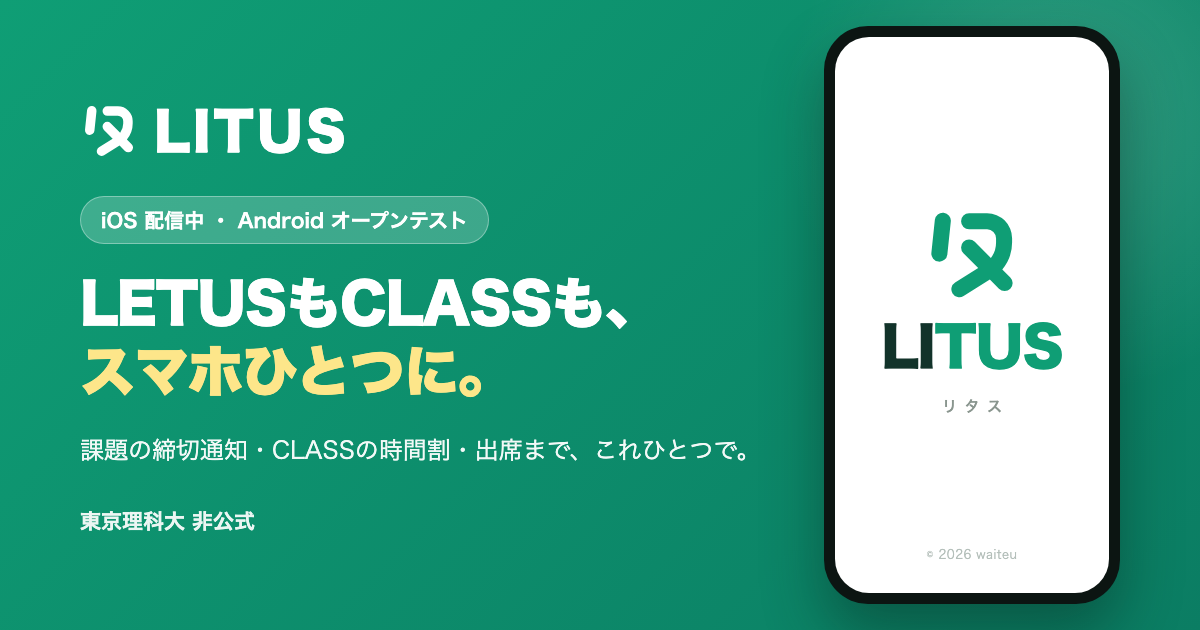
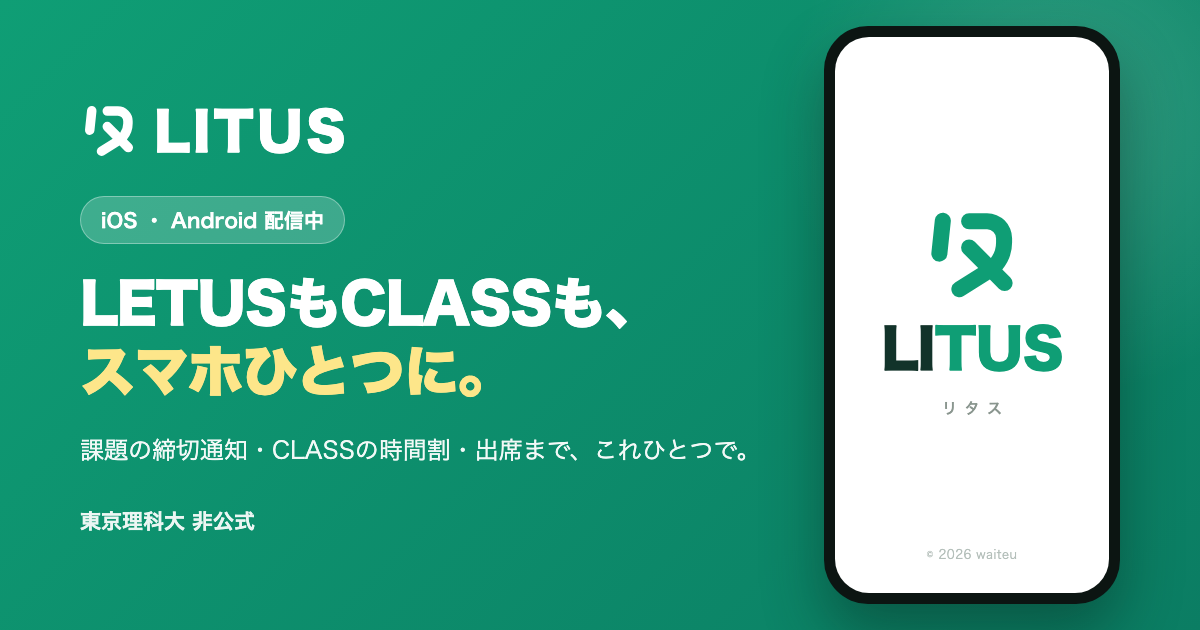
fix(landing): og-app.htmlとapp-og.pngのAndroid表記をオープンテストから配信中へ
統合ハブの公開面棚卸し（9/25）で指摘。リタスは9/24・9/25に両OSとも
製品版で配信開始したが、OG画像に「Android オープンテスト」が焼き込まれたまま
だった。og-app.htmlのバッジを「iOS ・ Android 配信中」へ直し、render.shで
1200x630に再生成（旧画像との目視比較でバッジ以外の差なし）。

上流のwaiteu-brand/litus-2026-09/og-app.htmlは、同READMEの通りLTWの
landing/og-app.htmlの写しであり生成物ではない（make_mark.pyはog-appに触れない）。
そちらの写しは本コミットでは触っていない。

diff --git a/landing/og-app.html b/landing/og-app.html
@@ -43,7 +43,7 @@
         <span class="mark"><svg width="52" height="52" viewBox="188.76 203.76 612.48 636.48" fill="none" aria-hidden="true"><g fill="#fff"><path d="M341.683,280.059 L316.683,518.059 A58,58 0 0 1 252.941,569.683 A58,58 0 0 1 201.317,505.941 L226.317,267.941 A58,58 0 0 1 290.059,216.317 A58,58 0 0 1 341.683,280.059 Z"/><path d="M474,220 L604,220 A181,181 0 0 1 785,401 L785,431 A304,304 0 0 1 714.13,626.106 L772.012,683.988 A58,58 0 0 1 772.012,766.012 A58,58 0 0 1 689.988,766.012 L624.055,700.079 L434.324,818.637 A58,58 0 0 1 354.402,800.185 A58,58 0 0 1 372.853,720.263 L539.873,615.898 L432.988,509.012 A58,58 0 0 1 432.988,426.988 A58,58 0 0 1 515.012,426.988 L631.582,543.557 A188,188 0 0 0 669,431 L669,401 A65,65 0 0 0 604,336 L474,336 A58,58 0 0 1 416,278 A58,58 0 0 1 474,220 Z"/></g></svg></span>
         <span class="wordmark">LITUS</span>
       </div>
-      <div class="badge">iOS 配信中 ・ Android オープンテスト</div>
+      <div class="badge">iOS ・ Android 配信中</div>
       <div class="title">LETUSもCLASSも、<br><em>スマホひとつに。</em></div>
       <div class="sub">課題の締切通知・CLASSの時間割・出席まで、これひとつで。</div>
       <div class="foot">東京理科大 非公式</div>
